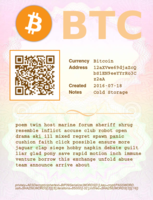
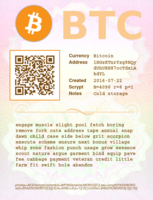
implement scrypt

diff --git a/render-page.py b/render-page.py
@@ -3,14 +3,13 @@
 # render an encrypted paper wallet for a single crypto-currency address
 
 
-import sys, os, argparse, getpass, time, hashlib
+import sys, os, argparse, getpass, time, hashlib, pyscrypt
 from random import randint
 from common import logger, cmd, pad, unwrap, break_string, positive_integer
-from common import default_iterations, default_background, salt_length_words
-from common import bytes2words, words2bytes
+from common import default_background, salt_length_words
+from common import bytes2words, words2bytes, scrypt_N, scrypt_r, scrypt_p
 from Crypto.Cipher import AES
 from PIL import Image
-from pbkdf2 import crypt
 
 
 # command line arguments
@@ -20,7 +19,6 @@ parser.add_argument('-n', '--name', help='crypto-currency name (default is name 
 parser.add_argument('-a', '--address', help='public address', nargs=1, required=True)
 parser.add_argument('-k', '--privkey', help='private key', nargs=1, required=True)
 parser.add_argument('-i', '--icon', help='crypto-currency icon file (default ./images/[symbol]-logo.png)', nargs=1, required=False)
-parser.add_argument('-t', '--iterations', help='HASH iterations (default {})'.format(default_iterations), nargs=1, type=positive_integer, default=default_iterations, required=False)
 parser.add_argument('-b', '--background', help='background image (default "{}")'.format(default_background), nargs=1, default=default_background, required=False)
 parser.add_argument('-p', '--password', help='encryption password (user is prompted if not present)', nargs=1, required=False)
 parser.add_argument('-o', '--output', help='output filename (default "./passport-page-[symbol].png")', nargs=1, required=False)
@@ -86,11 +84,6 @@ if (os.path.isfile(file_icon)):
 else:
     logger.critical('icon file does not exist: {}'.format(file_icon))
     exit(1)
-
-
-# hash iterations
-hash_iterations = unwrap(args['iterations'])
-logger.debug('ITERATIONS {:,}'.format(hash_iterations))
 
 
 # background image
@@ -197,51 +190,63 @@ cmd(['convert', file_output, '-font', font, '-fill', '#{}'.format(rgb_light), '-
 
 # currency name
 size = '18'
-position = '+265+240'
+position = '+265+220'
 font = 'Helvetica-Bold'
 txt = "Currency"
 cmd(['convert', file_output, '-font', font, '-fill', '#{}'.format(rgb_dark), '-pointsize', size, '-annotate', position, txt, file_output])
 
-position = '+360+240'
+position = '+360+220'
 font = 'Courier-Bold'
 txt = cname
 cmd(['convert', file_output, '-font', font, '-fill', '#{}'.format(rgb_dark), '-pointsize', size, '-annotate', position, txt, file_output])
 
 
 # public address
-position = '+265+265'
+position = '+265+245'
 font = 'Helvetica-Bold'
 txt = "Address"
 cmd(['convert', file_output, '-font', font, '-fill', '#{}'.format(rgb_dark), '-pointsize', size, '-annotate', position, txt, file_output])
 
-position = '+360+265'
+position = '+360+245'
 font = 'Courier-Bold'
-#txt = '\n'.join(break_string(address, len(address)/2+1))
 txt = '\\n'.join(break_string(address, 15))
 cmd(['convert', file_output, '-font', font, '-fill', '#{}'.format(rgb_dark), '-pointsize', size, '-annotate', position, txt, file_output])
 
 
 # creation date
-position = '+265+335'
+position = '+265+315'
 font = 'Helvetica-Bold'
 txt = "Created"
 cmd(['convert', file_output, '-font', font, '-fill', '#{}'.format(rgb_dark), '-pointsize', size, '-annotate', position, txt, file_output])
 
-position = '+360+335'
+position = '+360+315'
 font = 'Courier-Bold'
 localtime = time.localtime()
 txt = time.strftime("%Y-%m-%d", localtime)
 cmd(['convert', file_output, '-font', font, '-fill', '#{}'.format(rgb_dark), '-pointsize', size, '-annotate', position, txt, file_output])
 
 
+# scrypt params
+position = '+265+340'
+font = 'Helvetica-Bold'
+txt = "Scrypt"
+cmd(['convert', file_output, '-font', font, '-fill', '#{}'.format(rgb_dark), '-pointsize', size, '-annotate', position, txt, file_output])
+
+position = '+360+340'
+font = 'Courier-Bold'
+localtime = time.localtime()
+txt = 'N={} r={} p={}'.format(scrypt_N, scrypt_r, scrypt_p)
+cmd(['convert', file_output, '-font', font, '-fill', '#{}'.format(rgb_dark), '-pointsize', size, '-annotate', position, txt, file_output])
+
+
 # optional note
 if (comment is not None):
-    position = '+265+360'
+    position = '+265+365'
     font = 'Helvetica-Bold'
     txt = "Notes"
     cmd(['convert', file_output, '-font', font, '-fill', '#{}'.format(rgb_dark), '-pointsize', size, '-annotate', position, txt, file_output])
 
-    position = '+360+360'
+    position = '+360+365'
     font = 'Courier-Bold'
     txt = comment
     cmd(['convert', file_output, '-font', font, '-fill', '#{}'.format(rgb_dark), '-pointsize', size, '-annotate', position, txt, file_output])
@@ -254,6 +259,7 @@ size = '{}x{}'.format(qr_width+6, qr_width+6)
 file_shadow = '/tmp/passport-qr-shadow-{}.png'.format(os.getpid())
 cmd(['convert', '-size', size, 'xc:#{}'.format(rgb_avg), '-fill' , 'none', '-stroke', 'black', file_shadow])
 cmd(['composite', '-geometry', position, file_shadow, file_output, file_output])
+os.remove(file_shadow)
 
 
 # make qr code
@@ -266,7 +272,7 @@ os.remove(file_qr)
 
 
 #
-# word sequence = BIP39Encode(AESEncode(private_key, crypt(password + salt, iterations)))
+# word sequence = BIP39Encode(AESEncode(private_key, scrypt(password, salt, N, r, p)))
 #
 
 
@@ -290,7 +296,7 @@ logger.debug('IVEC [{}] {}'.format(len(iv), iv))
 
 # add divider graphic
 divider_width = 450
-position = '+65+385'
+position = '+65+380'
 file_divider = './images/divider-02.png'
 file_divider_resized = '/tmp/passport-resized-divider.png'.format(os.getpid())
 dimensions = '{}x{}'.format(divider_width, divider_width)
@@ -302,14 +308,15 @@ os.remove(file_divider_resized)
 # stretch key
 start = time.time()
 logger.debug('stretching key...')
-hashed_password = crypt(pwd, salt=salt, iterations=hash_iterations)
+hashed_password = pyscrypt.hash(password=pwd, salt=salt, N=scrypt_N, r=scrypt_r, p=scrypt_p, dkLen = 32)
+hashed_hex = hashed_password.encode('hex')
 elapsed = time.time() - start
-logger.debug('CRYPT {:,} iterations in {:.1f} seconds'.format(hash_iterations, elapsed))
+logger.debug('scrypt(N={},r={},p={}) took {:.1f} seconds'.format(scrypt_N, scrypt_r, scrypt_p, elapsed))
 logger.debug('HASH length {} bytes'.format(len(hashed_password)))
 
 
 # AES key
-aes_key = hashed_password[:32]
+aes_key = hashed_hex[:32]
 logger.debug('KEY length {} bytes'.format(len(aes_key)))
 
 
@@ -337,6 +344,7 @@ else:
 # convert ciphertext byte array into BIP39 word list
 words = bytes2words(ciphertext)
 
+
 # sanity check: convert back to bytes and verify
 bytes = words2bytes(words)
 if (bytes == ciphertext):
@@ -348,6 +356,7 @@ else:
 
 # prepend salt to word seq
 words = seed_list + words
+logger.debug('BIP39 WORDS: {}'.format(' '.join(words)))
 
 
 # insert newlines 
@@ -373,7 +382,7 @@ cmd(['convert', file_output, '-font', font, '-fill', '#{}'.format(rgb_dark), '-p
 size = '12'
 position = '+58+715'
 font = 'Helvetica-Oblique'
-txt = 'privkey=AESDecrypt(ciphertext=BIP39Serialize(WORDS[3:]),key=crypt(PASSWORD,\\nsalt=SHA256(WORDS[:3])[:8],iterations={})[-32:],initVec=SHA256(WORDS[:3])[:16])'.format(hash_iterations)
+txt = 'privkey=AESDecrypt(ciphertext=BIP39Serialize(WORDS[3:]),key=scrypt(PASSWORD,\\nsalt=SHA256(WORDS[:3])[:8],N={},r={},p={})[-32:],initVec=SHA256(WORDS[:3])[:16])'.format(scrypt_N, scrypt_r, scrypt_p)
 cmd(['convert', file_output, '-font', font, '-fill', '#{}'.format(rgb_dark), '-pointsize', size, '-annotate', position, txt, file_output])
 
 

diff --git a/recover-key.py b/recover-key.py
@@ -1,10 +1,9 @@
 #!/usr/bin/env python
 
-import sys, time, hashlib, getpass
+import sys, time, hashlib, getpass, pyscrypt
 from Crypto.Cipher import AES
-from common import logger, default_iterations, salt_length_words
-from common import words2bytes
-from pbkdf2 import crypt
+from common import logger, salt_length_words
+from common import words2bytes, scrypt_N, scrypt_r, scrypt_p
 
 
 # get user input
@@ -41,14 +40,12 @@ logger.debug('CIPHERTEXT length {} bytes'.format(len(ciphertext)))
 
 # stretch key
 start = time.time()
-hash_iterations = default_iterations
-logger.debug('ITERATIONS {:,}'.format(hash_iterations))
 logger.debug('stretching key ...')
-hashed_password = crypt(pwd, salt=salt, iterations=hash_iterations)
+hashed_password = pyscrypt.hash(password=pwd, salt=salt, N=scrypt_N, r=scrypt_r, p=scrypt_p, dkLen = 32)
+hashed_hex = hashed_password.encode('hex')
 elapsed = time.time() - start
-logger.debug('CRYPT {:,} iterations in {:.1f} seconds'.format(hash_iterations, elapsed))
-logger.debug('HASH length {} bytes'.format(len(hashed_password)))
-aes_key = hashed_password[:32]
+logger.debug('scrypt(N={},r={},p={}) took {:.1f} seconds'.format(scrypt_N, scrypt_r, scrypt_p, elapsed))
+aes_key = hashed_hex[:32]
 logger.debug('KEY length {} bytes'.format(len(aes_key)))
 
 

diff --git a/common.py b/common.py
@@ -5,14 +5,16 @@ from subprocess import Popen, PIPE
 
 # log
 import logging
-logging.basicConfig(format='%(asctime)-15s %(levelname)s %(message)s', level=logging.INFO)
+logging.basicConfig(format='%(asctime)-15s %(levelname)s %(message)s', level=logging.DEBUG)
 logger = logging.getLogger(__name__)
 
 
 # config
-default_iterations = 85000
 default_background = './images/passport-background-lines.png'
 salt_length_words = 3
+scrypt_N = 4096
+scrypt_r = 8
+scrypt_p = 1
 
 
 # execute shell command

diff --git a/README.md b/README.md
@@ -1,5 +1,14 @@
 # Passport wallet
 
+## Motivation
+
+The benefit of paper wallets is that they are technically un-hackable
+since the keys never exist online to be hacked in the first
+place. However, there is another problem: the wallets must be stored
+securely in the REAL world. Anyone who obtains a copy can access your
+account. It's risky even to print paper wallets because many printers
+keep copies of historic print jobs in local storage.
+
 ## Features
 
 The `render-page.py` script generates a secure paper wallet for *any* crypto-currency.
